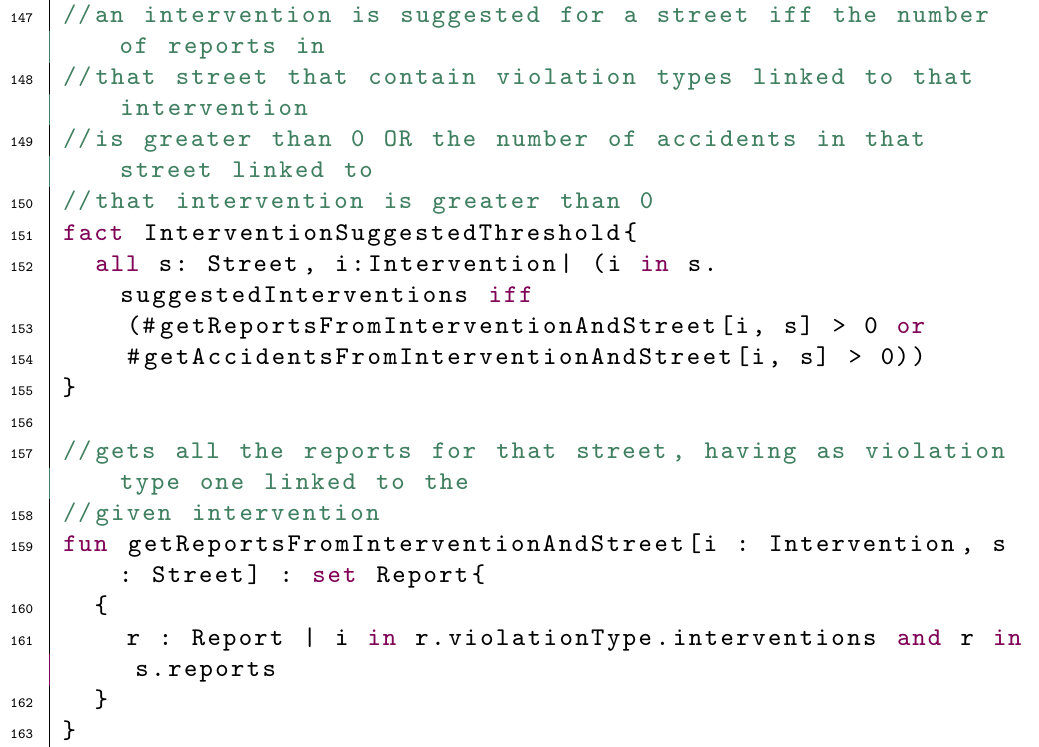
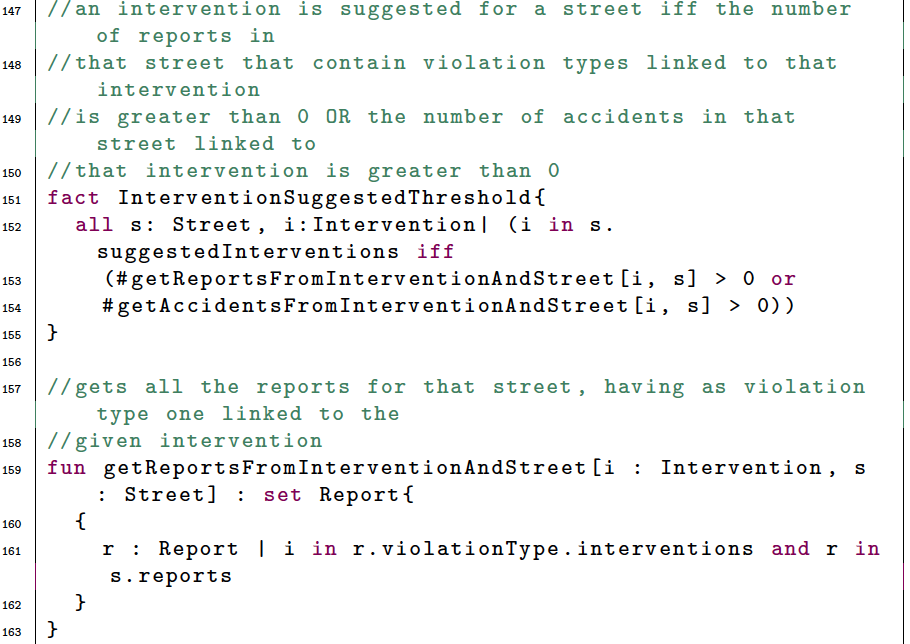
final layout for presentation

Changed region(s): [[0.0, 0.0, 0.9846, 1.0], [0.0923, 0.8385, 0.9846, 0.9317], [0.0923, 0.9317, 0.1231, 0.9627]]

diff --git a/Presentation/Files/pt_RASD.tex b/Presentation/Files/pt_RASD.tex
@@ -75,32 +75,32 @@
 	\subsection{Relevant Requirements}
 		\begin{frame}{Relevant Requirements}
 			\begin{itemize}
-				\item <1-> \textbf{R8} The system must allow users to take pictures of the violation they want to report
+				\item \textbf{R8} The system must allow users to take pictures of the violation they want to report
 				
-				\item <2-> \textbf{R17} The system must be able to show authorities all the violation reports sent by users
+				\item \textbf{R17} The system must be able to show authorities all the violation reports sent by users
 				
-				\item <3-> \textbf{R18} The system must be able to mine the stored violation reports
+				\item \textbf{R18} The system must be able to mine the stored violation reports
 				
-				\item <4-> \textbf{R31} The system must be able to determine whether a street is safe or not
+				\item \textbf{R31} The system must be able to determine whether a street is safe or not
 				
-				\item <5-> \textbf{R35} The system must be able to determine the most urgent interventions in a street.
+				\item \textbf{R35} The system must be able to determine the most urgent interventions in a street.
 			\end{itemize}
 		\end{frame}
 	
 	\subsection{Relevant Assumptions}
 		\begin{frame}{Relevant Assumptions}
 			\begin{itemize}
-				\item <1-> \textbf{DA2} Users always insert correct data while reporting violations to SafeStreets
+				\item \textbf{DA2} Users always insert correct data while reporting violations to SafeStreets
 				
-				\item <2-> \textbf{DA7} The GPS module of the devices on which SafeStreets runs always works correctly and has an accuracy of 2 meters
+				\item \textbf{DA7} The GPS module of the devices on which SafeStreets runs always works correctly and has an accuracy of 2 meters
 				
-				\item <3-> \textbf{DA8} The camera module of the devices on which SafeStreets runs always works correctly
+				\item \textbf{DA8} The camera module of the devices on which SafeStreets runs always works correctly
 				
-				\item <4-> \textbf{DA10} The system is assumed to work in Italy
+				\item \textbf{DA10} The system is assumed to work in Italy
 				
-				\item <5-> \textbf{DA13} No one physically and maliciously replaces license plates
+				\item \textbf{DA13} No one physically and maliciously replaces license plates
 				
-				\item <6-> \textbf{DA17} Accidents data provided by municipalities are always correct
+				\item \textbf{DA17} Accidents data provided by municipalities are always correct
 			\end{itemize}
 		\end{frame}
 
@@ -124,34 +124,46 @@
 		\end{frame}
 	
 		\begin{frame}{Facts}
+			\hspace{0.5cm}
 			\begin{minipage}{0.4\textwidth}
 				\centering
-				\includegraphics[scale=0.23]{rasd/interventionSuggestedThreshold}
-			\end{minipage}\hspace{0.5cm}
+				\includegraphics[scale=0.6]{rasd/interventionSuggestedThreshold}
+			\end{minipage}
 		\end{frame}
 
 		\begin{frame}{Facts}
+			\hspace{-0.7cm}
 			\begin{minipage}{0.4\textwidth}
 				\centering
-				\includegraphics[scale=0.45]{rasd/unsafeStreetThreshold}
-			\end{minipage}\hspace{0.5cm}
+				\includegraphics[scale=0.52]{rasd/unsafeStreetThreshold}
+			\end{minipage}
 		\end{frame}
 	
 		\begin{frame}{Third World}
-			\begin{minipage}{0.4\textwidth}
+			\begin{minipage}{0.3\textwidth}
 				\centering
-				\includegraphics[scale=0.23]{rasd/world3}
+				\includegraphics[scale=0.24]{rasd/world3}
 			\end{minipage}\hspace{0.5cm}
 			~
 			\begin{minipage}{0.4\textwidth}
 				\centering
-				\includegraphics[scale=0.3]{rasd/interventionsResultRule}
+				\begin{figure}
+					\vspace{-10pt}
+					\centering
+					\includegraphics[scale=0.34]{rasd/interventionsResultRule}
+				\end{figure}
+
+				\begin{figure}
+					\vspace{-0.8cm}
+					\centering
+					\includegraphics[scale=0.38]{rasd/reportsResultRule}
+				\end{figure}
 			\end{minipage}
 		\end{frame}
 	
-		\begin{frame}{Facts}
-			\begin{minipage}{0.4\textwidth}
-				\centering
-				\includegraphics[scale=0.29]{rasd/reportsResultRule}
-			\end{minipage}\hspace{0.5cm}
-		\end{frame}
+		%\begin{frame}{Facts}
+		%	\begin{minipage}{0.4\textwidth}
+			%	\centering
+			%	\includegraphics[scale=0.29]{rasd/reportsResultRule}
+			%\end{minipage}\hspace{0.5cm}
+		%\end{frame}

diff --git a/Presentation/Files/pt_DD.tex b/Presentation/Files/pt_DD.tex
@@ -63,14 +63,14 @@
 	
 	\subsection{Architectural Styles and Patterns}
 		\begin{frame}{Client-Server in Four-tier Architecture}
-			The system is a \textbf{crowed-sourced} application based on the client-server paradigm where the \emph{users} represent the crowd on which the functionalities of SafeStreets are funded.
+			The system is a \textbf{crowed-sourced} application based on the client-server paradigm where the \emph{users} represent the crowd on which the functionalities of SafeStreets are funded
 			
 			\begin{figure}[h!]
 				\centering
 				\includegraphics[scale=0.32]{dd/clientServer}
 			\end{figure}
 		
-			The layers of the system are deployed to a \emph{four-tier architecture}.
+			The layers of the system are deployed to a \emph{four-tier architecture}
 			
 			\begin{figure}[h]
 				\centering
@@ -79,7 +79,7 @@
 		\end{frame}
 	
 		\begin{frame}{REST and TCP/IP}
-			SafeStreets provides its services through \textbf{REST} thanks to an interface that is extended twice to define the communication with the \textbf{mobile app} for the users and the \textbf{web app} for the authorities.
+			SafeStreets provides its services through \textbf{REST} thanks to an interface that is extended twice to define the communication with the \textbf{mobile app} for the users and the \textbf{web app} for the authorities
 			
 			\begin{figure}
 				\begin{minipage}{0.42\textwidth}
@@ -91,7 +91,7 @@
 				\end{minipage}
 			\end{figure}
 			
-			Moreover basic communication with the TCP/IP protocol is also used in particular for the external components that allows the system to manage its data: the \emph{DBMS} and the \emph{EMS}.
+			Moreover basic communication with the TCP/IP protocol is also used in particular for the external components that allows the system to manage its data: the \emph{DBMS} and the \emph{EMS}
 		\end{frame}
 		
 	\subsection{Deployment View}
